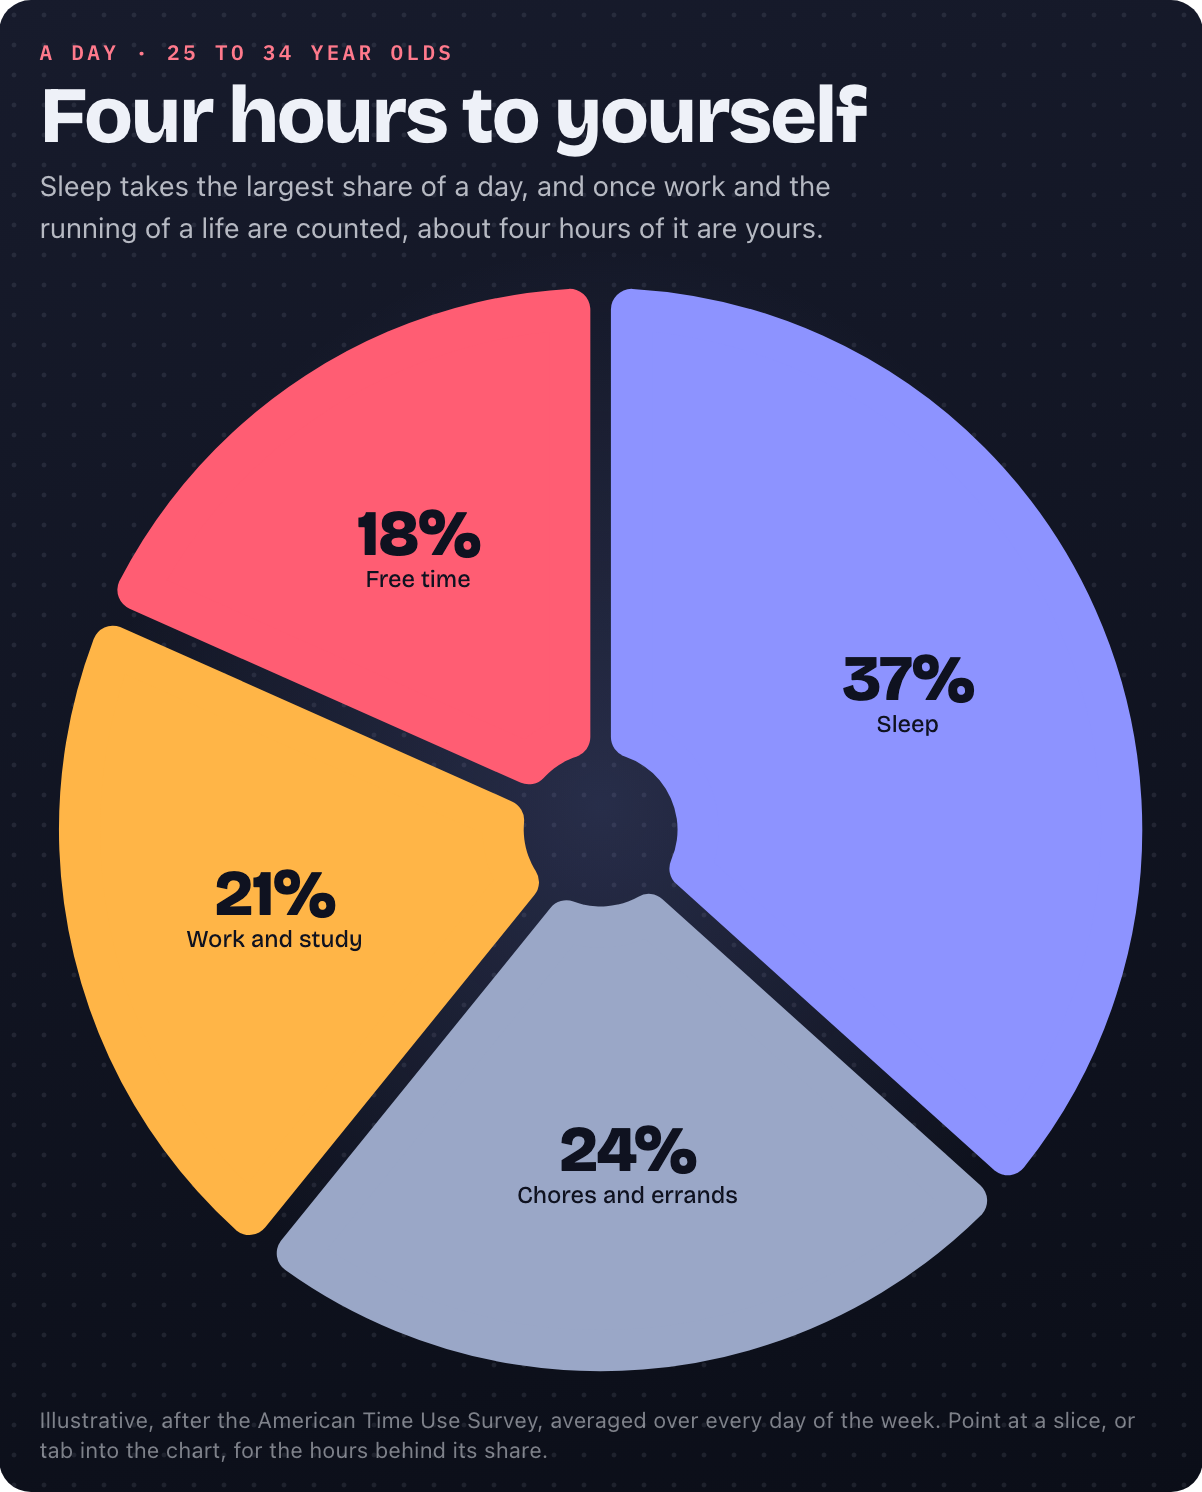
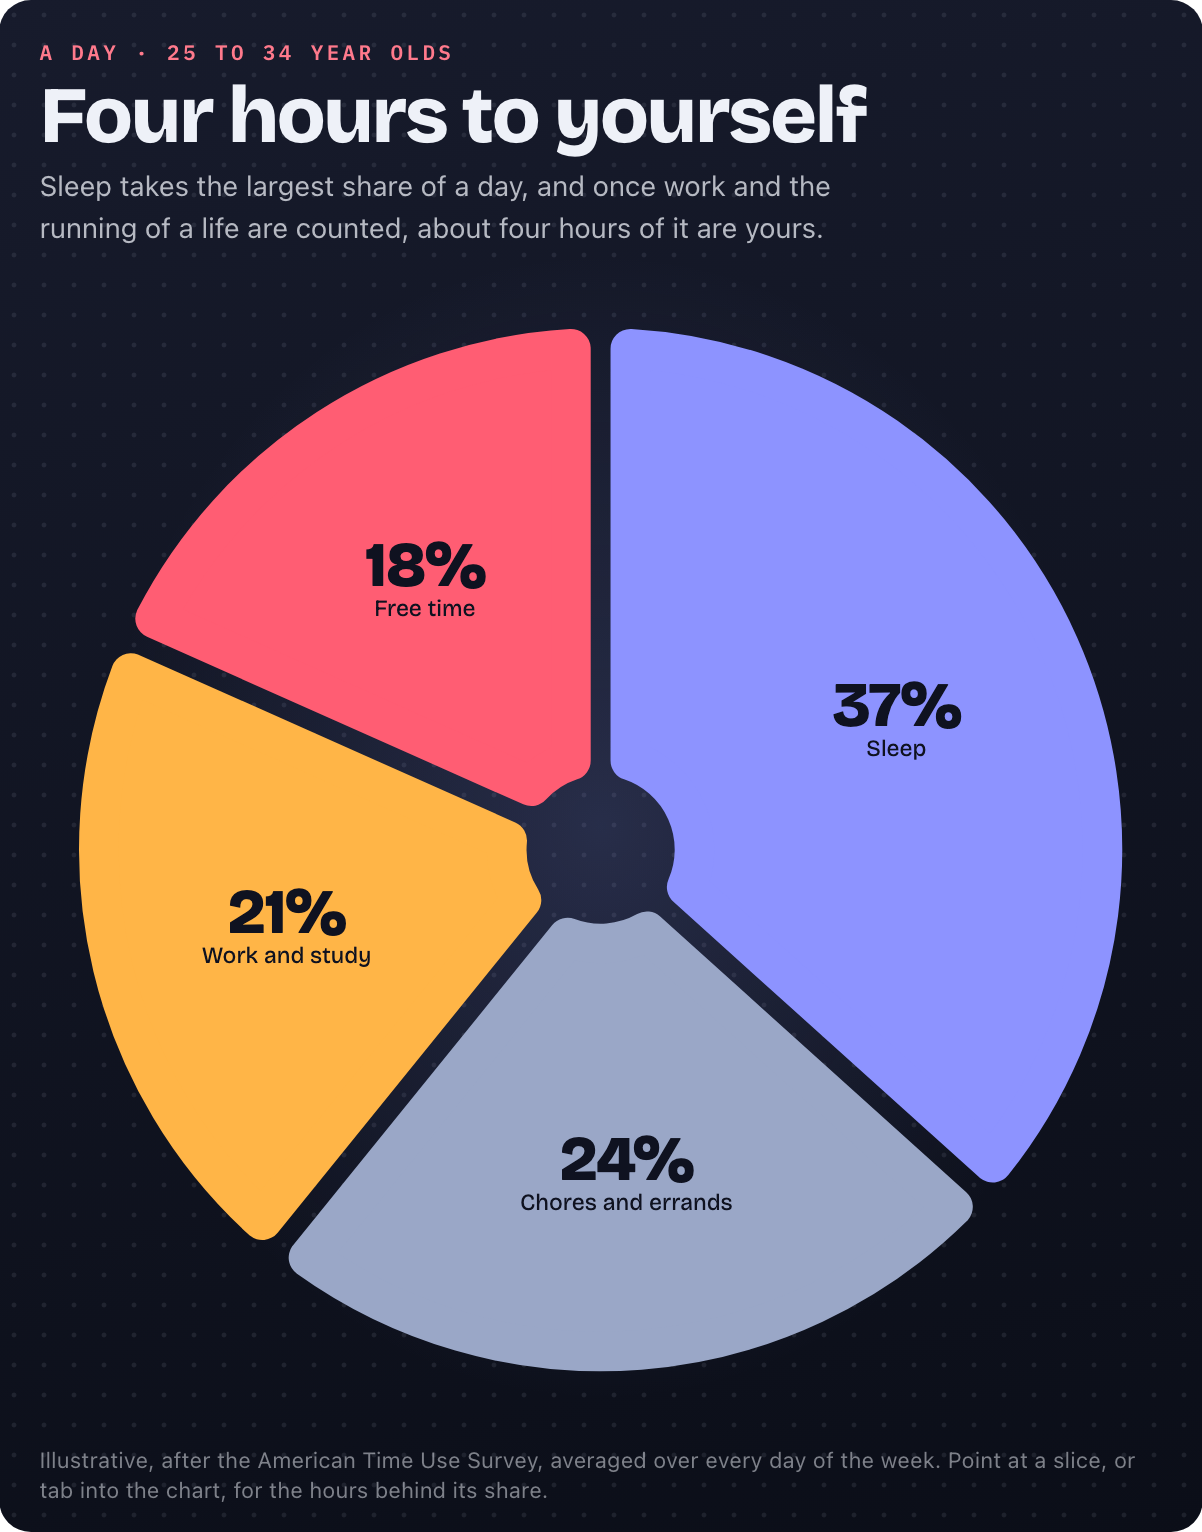
Give the pie 20px less height and 20px more room above and below
The chart is 20px shorter at every width, and its room above and below goes from 4px to 24px, so the pie keeps its
size and gets space around it. The thumbnail is taken again to match.

diff --git a/src/gallery/examples/pie-chart/poster/chart.jsx b/src/gallery/examples/pie-chart/poster/chart.jsx
@@ -54,7 +54,7 @@ const SWEEP = () => ({ duration: 600 });
 // out of 100, which is an angle round the pie and a length along the flat bar. rhp places the label either way.
 export const PartSlat = slat({
   thickness: { horizontal: 82 },
-  room: { horizontal: { start: 4, end: 4 }, vertical: { start: 4, end: 4 } },
+  room: { horizontal: { start: 4, end: 4 }, vertical: { start: 24, end: 24 } },
   css: styles.part,
 }, (d) => {
   const span = animated(() => [d.from, d.to], SWEEP);
@@ -84,7 +84,7 @@ export default function PieChart(p) {
     <Poster look="day" kicker="A day · 25 to 34 year olds" title="Four hours to yourself"
       dek="Sleep takes the largest share of a day, and once work and the running of a life are counted, about four hours of it are yours."
       note="Illustrative, after the American Time Use Survey, averaged over every day of the week. Point at a slice, or tab into the chart, for the hours behind its share.">
-      <Chart orientation={p.o()} scale={[0, 100]} ticks={false} height={470} animate={p.js()} theme={styles.theme}>
+      <Chart orientation={p.o()} scale={[0, 100]} ticks={false} height={450} animate={p.js()} theme={styles.theme}>
         <Plot keyboard overlap key="name" name={PARTS} color={COLORS} hours={hours()} from={stack().from} to={stack().to}>
           {PartSlat}
         </Plot>

diff --git a/src/customizations/styles/gallery.css b/src/customizations/styles/gallery.css
@@ -191,7 +191,7 @@
     linear-gradient(168deg, #171b2c, #0b0e18);
 }
 /* The chart's box follows the pie in it, so no empty band is left above and below. */
-.poster.day .rhp-chart { --rhp-height: clamp(280px, calc(100cqw - 20px), 560px) !important; }
+.poster.day .rhp-chart { --rhp-height: clamp(260px, calc(100cqw - 40px), 540px) !important; }
 .poster.day .kicker { color: #ff7a8c; opacity: 1; }
 .poster.day .headline { font: 800 40px/1 var(--poster-display); letter-spacing: -0.03em; }
 .poster.day .dek { opacity: .74; }
